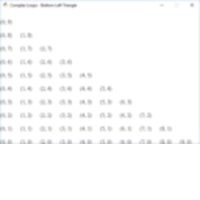
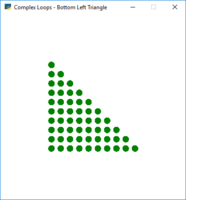
Update documentation around example code.

diff --git a/doc/_static/css/custom.css b/doc/_static/css/custom.css
@@ -4,10 +4,14 @@
 .wy-table-responsive table td {
     white-space: normal;
 }
-#drawing,#animation {
+#drawing,#animation,#drawing-with-loops {
 	display: flex;
 	flex-direction: row;
 	flex-wrap: wrap;
+}
+.figure {
+	margin-left: 2px;
+	margin-right: 2px;
 }
 h1 {
 	width: 100%;

diff --git a/examples/nested_loops_bottom_right_triangle.py b/examples/nested_loops_bottom_right_triangle.py
@@ -7,13 +7,13 @@ Showing how to do nested loops.
 # Library imports
 import arcade
 
-COLUMN_SPACING = 60
-ROW_SPACING = 40
-
-TEXT_SIZE = 12
+COLUMN_SPACING = 20
+ROW_SPACING = 20
+LEFT_MARGIN = 110
+BOTTOM_MARGIN = 110
 
 # Open the window and set the background
-arcade.open_window("Complex Loops - Bottom Right Triangle", 600, 400)
+arcade.open_window("Complex Loops - Bottom Right Triangle", 400, 400)
 
 arcade.set_background_color(arcade.color.WHITE)
 
@@ -26,13 +26,11 @@ for row in range(10):
     # Change the number of columns depending on the row we are in
     for column in range(row, 10):
         # Calculate our location
-        x = column * COLUMN_SPACING
-        y = row * ROW_SPACING
+        x = column * COLUMN_SPACING + LEFT_MARGIN
+        y = row * ROW_SPACING + BOTTOM_MARGIN
 
         # Draw the item
-        arcade.draw_text("({}, {})".format(column, row),
-                         x, y,
-                         arcade.color.BLACK, TEXT_SIZE)
+        arcade.draw_circle_filled(x, y, 7, arcade.color.AO)
 
 # Finish the render.
 arcade.finish_render()

diff --git a/examples/nested_loops_bottom_left_triangle.py b/examples/nested_loops_bottom_left_triangle.py
@@ -7,13 +7,13 @@ Showing how to do nested loops.
 # Library imports
 import arcade
 
-COLUMN_SPACING = 60
-ROW_SPACING = 40
-
-TEXT_SIZE = 12
+COLUMN_SPACING = 20
+ROW_SPACING = 20
+LEFT_MARGIN = 110
+BOTTOM_MARGIN = 110
 
 # Open the window and set the background
-arcade.open_window("Complex Loops - Bottom Left Triangle", 600, 400)
+arcade.open_window("Complex Loops - Bottom Left Triangle", 400, 400)
 
 arcade.set_background_color(arcade.color.WHITE)
 
@@ -26,13 +26,11 @@ for row in range(10):
     # Change the number of columns depending on the row we are in
     for column in range(10 - row):
         # Calculate our location
-        x = column * COLUMN_SPACING
-        y = row * ROW_SPACING
+        x = column * COLUMN_SPACING + LEFT_MARGIN
+        y = row * ROW_SPACING + BOTTOM_MARGIN
 
         # Draw the item
-        arcade.draw_text("({}, {})".format(column, row),
-                         x, y,
-                         arcade.color.BLACK, TEXT_SIZE)
+        arcade.draw_circle_filled(x, y, 7, arcade.color.AO)
 
 # Finish the render.
 arcade.finish_render()

diff --git a/examples/nested_loops_top_right_triangle.py b/examples/nested_loops_top_right_triangle.py
@@ -7,13 +7,13 @@ Showing how to do nested loops.
 # Library imports
 import arcade
 
-COLUMN_SPACING = 60
-ROW_SPACING = 40
-
-TEXT_SIZE = 12
+COLUMN_SPACING = 20
+ROW_SPACING = 20
+LEFT_MARGIN = 110
+BOTTOM_MARGIN = 110
 
 # Open the window and set the background
-arcade.open_window("Complex Loops - Top Right Triangle", 600, 400)
+arcade.open_window("Complex Loops - Top Right Triangle", 400, 400)
 
 arcade.set_background_color(arcade.color.WHITE)
 
@@ -26,13 +26,11 @@ for row in range(10):
     # Change the number of columns depending on the row we are in
     for column in range(9 - row, 10):
         # Calculate our location
-        x = column * COLUMN_SPACING
-        y = row * ROW_SPACING
+        x = column * COLUMN_SPACING + LEFT_MARGIN
+        y = row * ROW_SPACING + BOTTOM_MARGIN
 
         # Draw the item
-        arcade.draw_text("({}, {})".format(column, row),
-                         x, y,
-                         arcade.color.BLACK, TEXT_SIZE)
+        arcade.draw_circle_filled(x, y, 7, arcade.color.AO)
 
 # Finish the render.
 arcade.finish_render()

diff --git a/examples/nested_loops_top_left_triangle.py b/examples/nested_loops_top_left_triangle.py
@@ -7,13 +7,13 @@ Showing how to do nested loops.
 # Library imports
 import arcade
 
-COLUMN_SPACING = 60
-ROW_SPACING = 40
-
-TEXT_SIZE = 12
+COLUMN_SPACING = 20
+ROW_SPACING = 20
+LEFT_MARGIN = 110
+BOTTOM_MARGIN = 110
 
 # Open the window and set the background
-arcade.open_window("Complex Loops - Top Left Triangle", 600, 400)
+arcade.open_window("Complex Loops - Top Left Triangle", 400, 400)
 
 arcade.set_background_color(arcade.color.WHITE)
 
@@ -26,13 +26,11 @@ for row in range(10):
     # Change the number of columns depending on the row we are in
     for column in range(row):
         # Calculate our location
-        x = column * COLUMN_SPACING
-        y = row * ROW_SPACING
+        x = column * COLUMN_SPACING + LEFT_MARGIN
+        y = row * ROW_SPACING + BOTTOM_MARGIN
 
         # Draw the item
-        arcade.draw_text("({}, {})".format(column, row),
-                         x, y,
-                         arcade.color.BLACK, TEXT_SIZE)
+        arcade.draw_circle_filled(x, y, 7, arcade.color.AO)
 
 # Finish the render.
 arcade.finish_render()

diff --git a/examples/nested_loops_box.py b/examples/nested_loops_box.py
@@ -7,13 +7,13 @@ Showing how to do nested loops.
 # Library imports
 import arcade
 
-COLUMN_SPACING = 60
-ROW_SPACING = 40
-
-TEXT_SIZE = 12
+COLUMN_SPACING = 20
+ROW_SPACING = 20
+LEFT_MARGIN = 110
+BOTTOM_MARGIN = 110
 
 # Open the window and set the background
-arcade.open_window("Complex Loops - Box", 600, 400)
+arcade.open_window("Complex Loops - Box", 400, 400)
 
 arcade.set_background_color(arcade.color.WHITE)
 
@@ -25,13 +25,11 @@ for row in range(10):
     # Loop for each column
     for column in range(10):
         # Calculate our location
-        x = column * COLUMN_SPACING
-        y = row * ROW_SPACING
+        x = column * COLUMN_SPACING + LEFT_MARGIN
+        y = row * ROW_SPACING + BOTTOM_MARGIN
 
         # Draw the item
-        arcade.draw_text("({}, {})".format(column, row),
-                         x, y,
-                         arcade.color.BLACK, TEXT_SIZE)
+        arcade.draw_circle_filled(x, y, 7, arcade.color.AO)
 
 # Finish the render.
 arcade.finish_render()

diff --git a/doc/examples/index.rst b/doc/examples/index.rst
@@ -7,22 +7,22 @@ Drawing
 -------
 
 .. figure:: thumbs/drawing_primitives.png
-   :figwidth: 174px
+   :figwidth: 170px
 
    :ref:`drawing_primitives`
 
 .. figure:: thumbs/drawing_with_functions.png
-   :figwidth: 174px
+   :figwidth: 170px
 
    :ref:`drawing_with_functions`
 
 .. figure:: thumbs/drawing_text.png
-   :figwidth: 174px
+   :figwidth: 170px
 
    :ref:`drawing_text`
 
 .. figure:: thumbs/array_backed_grid.png
-   :figwidth: 174px
+   :figwidth: 170px
 
    :ref:`array_backed_grid`
 
@@ -31,35 +31,71 @@ Animation
 ---------
 
 .. figure:: thumbs/bouncing_rectangle.png
-   :figwidth: 174px
+   :figwidth: 170px
 
    :ref:`bouncing_rectangle`
 
 .. figure:: thumbs/bouncing_ball.png
-   :figwidth: 174px
+   :figwidth: 170px
 
    :ref:`bouncing_ball`
 
 .. figure:: thumbs/bouncing_balls.png
-   :figwidth: 174px
+   :figwidth: 170px
 
    :ref:`bouncing_balls`
 
 .. figure:: thumbs/radar_sweep.png
-   :figwidth: 174px
+   :figwidth: 170px
 
    :ref:`radar_sweep`
 
+Drawing with Loops
+------------------
+
+.. figure:: thumbs/drawing_with_loops.png
+   :figwidth: 170px
+
+   :ref:`drawing_with_loops`
+
+.. figure:: thumbs/nested_loops_box.png
+   :figwidth: 170px
+
+   :ref:`nested_loops_box`
+
+.. figure:: thumbs/nested_loops_bottom_left_triangle.png
+   :figwidth: 170px
+
+   :ref:`nested_loops_bottom_left_triangle`
+
+.. figure:: thumbs/nested_loops_top_right_triangle.png
+   :figwidth: 170px
+
+   :ref:`nested_loops_top_right_triangle`
+
+.. figure:: thumbs/nested_loops_top_left_triangle.png
+   :figwidth: 170px
+
+   :ref:`nested_loops_bottom_left_triangle`
+
+.. figure:: thumbs/nested_loops_top_right_triangle.png
+   :figwidth: 170px
+
+   :ref:`nested_loops_top_right_triangle`
+
+.. figure:: thumbs/shapes.png
+   :figwidth: 170px
+
+   :ref:`shapes`
+
+.. figure:: thumbs/snow.png
+   :figwidth: 170px
+
+   :ref:`snow`
 
 .. toctree::
    :maxdepth: 3
 
-   radar_sweep
-   drawing_with_loops
-   nested_loops
-   shapes
-   snow
-   timer
 
 User Control
 ------------
@@ -132,6 +168,7 @@ Other
    :maxdepth: 3
 
    starting_template
+   timer
    sprite_collect_coins_background
    sprite_change_coins
    instruction_and_game_over_screens

diff --git a/doc/examples/drawing_with_loops.rst b/doc/examples/drawing_with_loops.rst
@@ -1,4 +1,6 @@
-.. _example-drawing-with-loops:
+:orphan:
+
+.. _drawing_with_loops:
 
 Drawing with Loops
 ==================
@@ -7,6 +9,6 @@ Drawing with Loops
     :width: 600px
     :height: 600px
     :align: center
-    :alt: Screenshot of drawing with loops example program
+    :alt: Screen shot of drawing with loops example program
 
 .. literalinclude:: ../../examples/drawing_with_loops.py

diff --git a/doc/examples/nested_loops_bottom_right_triangle.rst b/doc/examples/nested_loops_bottom_right_triangle.rst
@@ -1,0 +1,14 @@
+:orphan:
+
+.. _nested_loops_bottom_right_triangle:
+
+Bottom Right Triangle
+=====================
+
+.. image:: nested_loops_bottom_right_triangle.png
+    :width: 255px
+    :height: 255px
+    :align: center
+    :alt: Draw a triangle with nested loops.
+
+.. literalinclude:: ../../examples/nested_loops_bottom_right_triangle.py

diff --git a/doc/examples/nested_loops_bottom_left_triangle.rst b/doc/examples/nested_loops_bottom_left_triangle.rst
@@ -1,0 +1,14 @@
+:orphan:
+
+.. _nested_loops_bottom_left_triangle:
+
+Bottom Left Triangle
+====================
+
+.. image:: nested_loops_bottom_left_triangle.png
+    :width: 255px
+    :height: 255px
+    :align: center
+    :alt: Draw a triangle with nested loops.
+
+.. literalinclude:: ../../examples/nested_loops_bottom_left_triangle.py

diff --git a/doc/examples/nested_loops_box.rst b/doc/examples/nested_loops_box.rst
@@ -1,0 +1,14 @@
+:orphan:
+
+.. _nested_loops_box:
+
+Draw a Box with Nested Loops
+============================
+
+.. image:: nested_loops_box.png
+    :width: 255px
+    :height: 255px
+    :align: center
+    :alt: Screenshot of a program that shows an box with nested loops.
+
+.. literalinclude:: ../../examples/nested_loops_box.py

diff --git a/doc/examples/nested_loops_top_right_triangle.rst b/doc/examples/nested_loops_top_right_triangle.rst
@@ -1,0 +1,14 @@
+:orphan:
+
+.. _nested_loops_top_right_triangle:
+
+Top Right Triangle
+==================
+
+.. image:: nested_loops_top_right_triangle.png
+    :width: 255px
+    :height: 255px
+    :align: center
+    :alt: Draw a triangle with nested loops.
+
+.. literalinclude:: ../../examples/nested_loops_top_right_triangle.py
